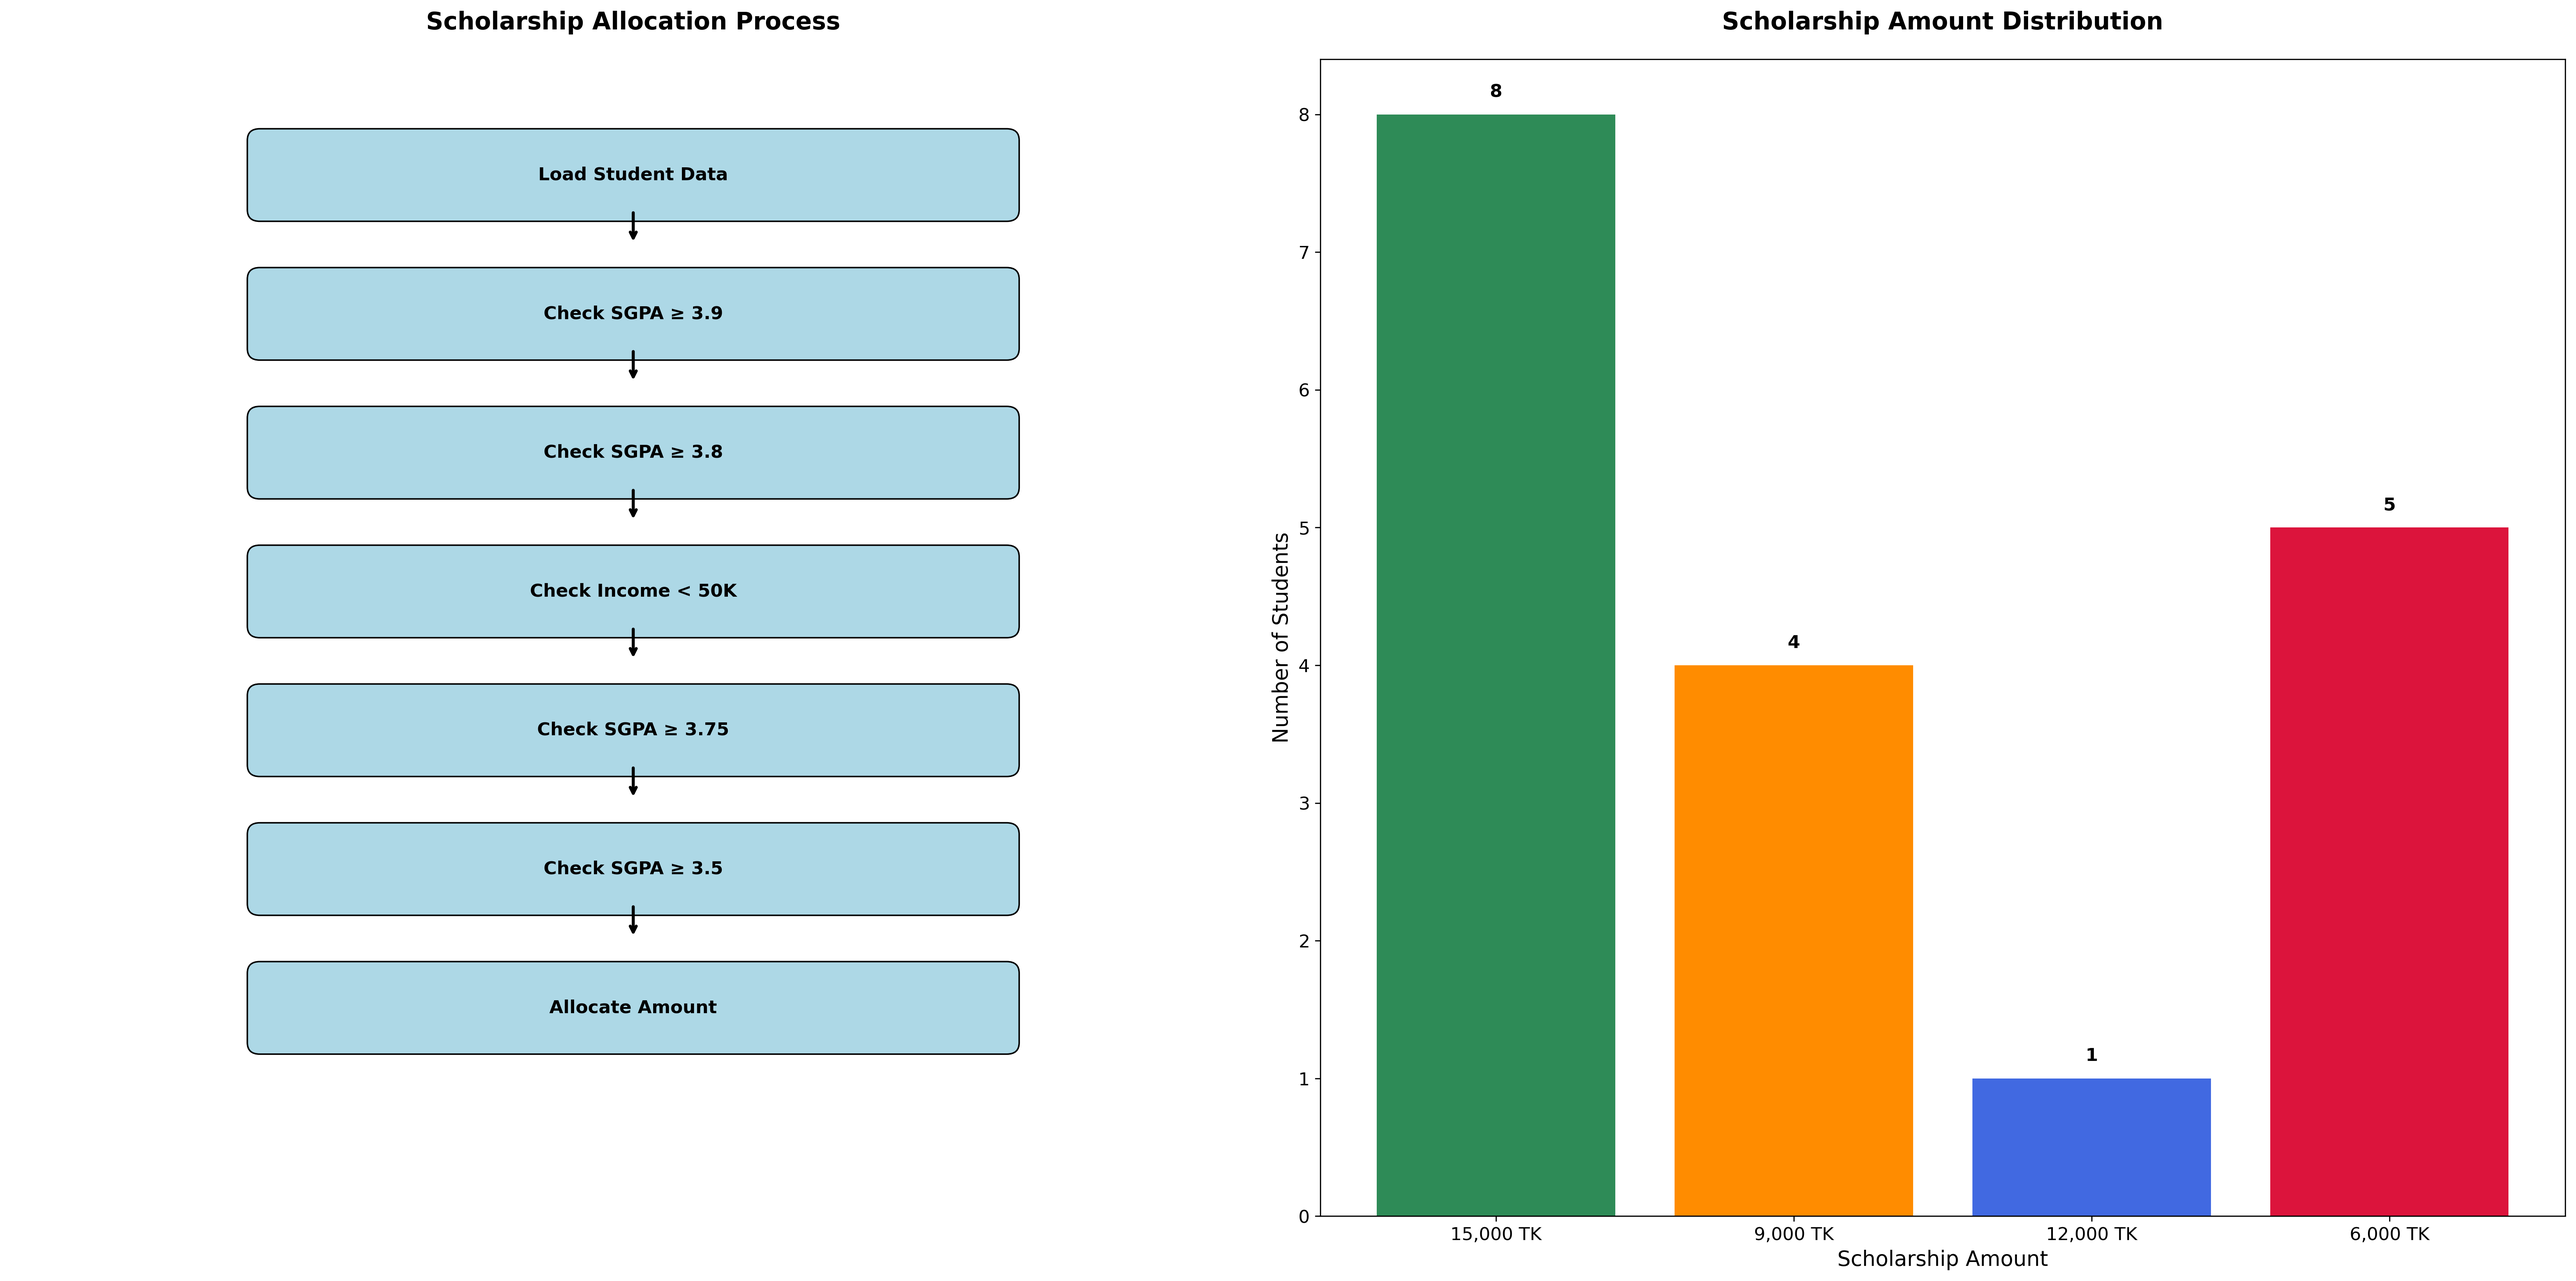
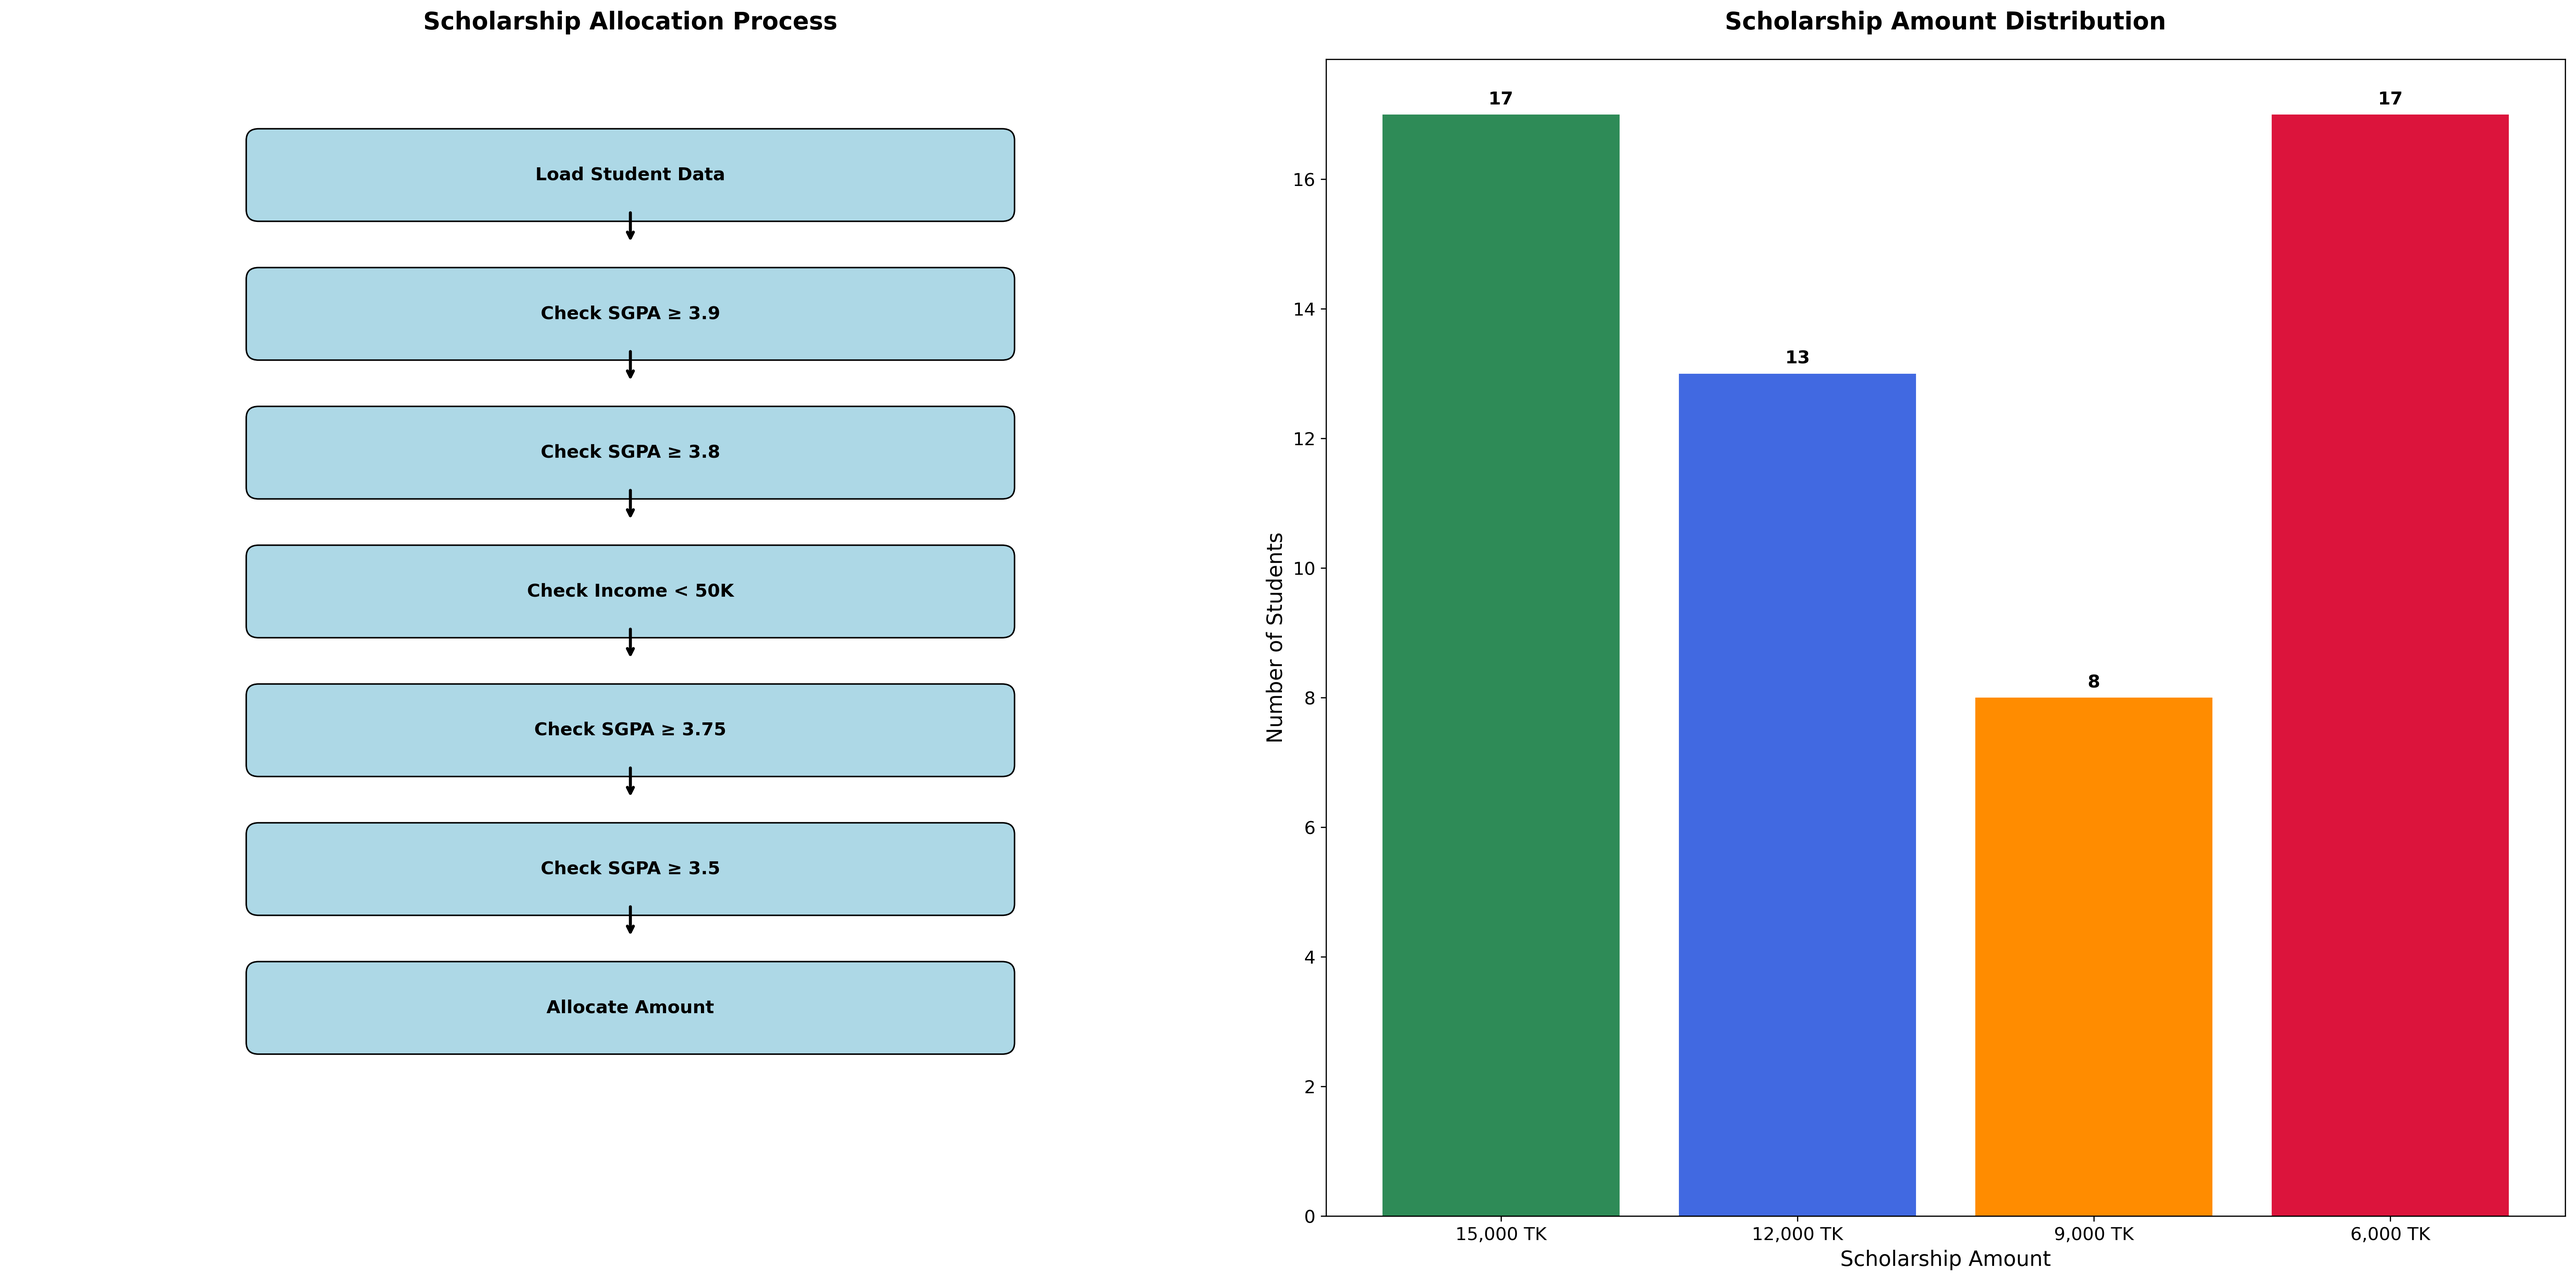
Update report generation timestamps and refactor student data retrieval in teachers menu

diff --git a/src/services/scholarship_service.py b/src/services/scholarship_service.py
@@ -11,9 +11,22 @@ class ScholarshipService:
     def __init__(self):
         self.model = DecisionTreeClassifier(max_depth=4, min_samples_split=5)
         self.total_budget = 0
-        # Database will be used to load student grades
         self.db_manager = DatabaseManager()
         self.scholarship_amounts = [0, 6000, 9000, 12000, 15000]  # Possible scholarship amounts
+        # Train model on initialization
+        self._ensure_model_trained()
+
+    def _ensure_model_trained(self):
+        """Ensure the model is trained with initial data"""
+        print("\nInitializing decision tree model...")
+        try:
+            data = self.load_and_prepare_data()
+            X, y = self.prepare_training_data(data)
+            print(f"Training model with {len(X)} samples...")
+            self.train_model(X, y)
+            print("Model training completed successfully")
+        except Exception as e:
+            print(f"Warning: Could not train model during initialization: {str(e)}")
 
     def load_and_prepare_data(self):
         """Load and prepare data from the student_grades table in the database"""
@@ -143,30 +156,32 @@ class ScholarshipService:
         Determine scholarship amount using the trained decision tree model.
         If model is not trained yet, falls back to rule-based decision.
         """
-        # If model is not trained yet, use rule-based decision
+        # If model is not trained yet, try to train it
         if not hasattr(self, 'model') or not hasattr(self.model, 'tree_'):
-            print("\nUsing rule-based (if-else) decision making")
-            if sgpa >= 3.9:
-                return 15000
-            elif sgpa >= 3.8:
-                return 9000
-            elif sgpa >= 3.75 and monthly_income < 50000:
-                return 12000
-            elif sgpa >= 3.5 and monthly_income < 50000:
-                return 6000
-            return 0
+            self._ensure_model_trained()
+            # If still not trained, use rule-based
+            if not hasattr(self.model, 'tree_'):
+                print("\nFalling back to rule-based (if-else) decision making")
+                if sgpa >= 3.9:
+                    return 15000
+                elif sgpa >= 3.8:
+                    return 9000
+                elif sgpa >= 3.75 and monthly_income < 50000:
+                    return 12000
+                elif sgpa >= 3.5 and monthly_income < 50000:
+                    return 6000
+                return 0
 
-        print("\nUsing trained decision tree model for decision making")
+        #print("\nUsing trained decision tree model for decision making")
         # Normalize input data similar to training data
-        # Note: Using simple min-max scaling since this is for a single record
         normalized_sgpa = (sgpa - 0) / (4.0 - 0)  # SGPA is between 0-4
         normalized_income = (monthly_income - 10000) / (100000 - 10000)  # Income is between 10k-100k
 
         # Make prediction using the model
         X = np.array([[normalized_sgpa, normalized_income]])
         prediction = self.model.predict(X)[0]
-        print(f"Input: SGPA={sgpa}, Income={monthly_income}")
-        print(f"Normalized: SGPA={normalized_sgpa:.3f}, Income={normalized_income:.3f}")
-        print(f"Model prediction index: {prediction}, Amount: {self.scholarship_amounts[prediction]} TK")
+        # print(f"Input: SGPA={sgpa}, Income={monthly_income}")
+        # print(f"Normalized: SGPA={normalized_sgpa:.3f}, Income={normalized_income:.3f}")
+        # print(f"Model prediction index: {prediction}, Amount: {self.scholarship_amounts[prediction]} TK")
 
         return self.scholarship_amounts[prediction]
